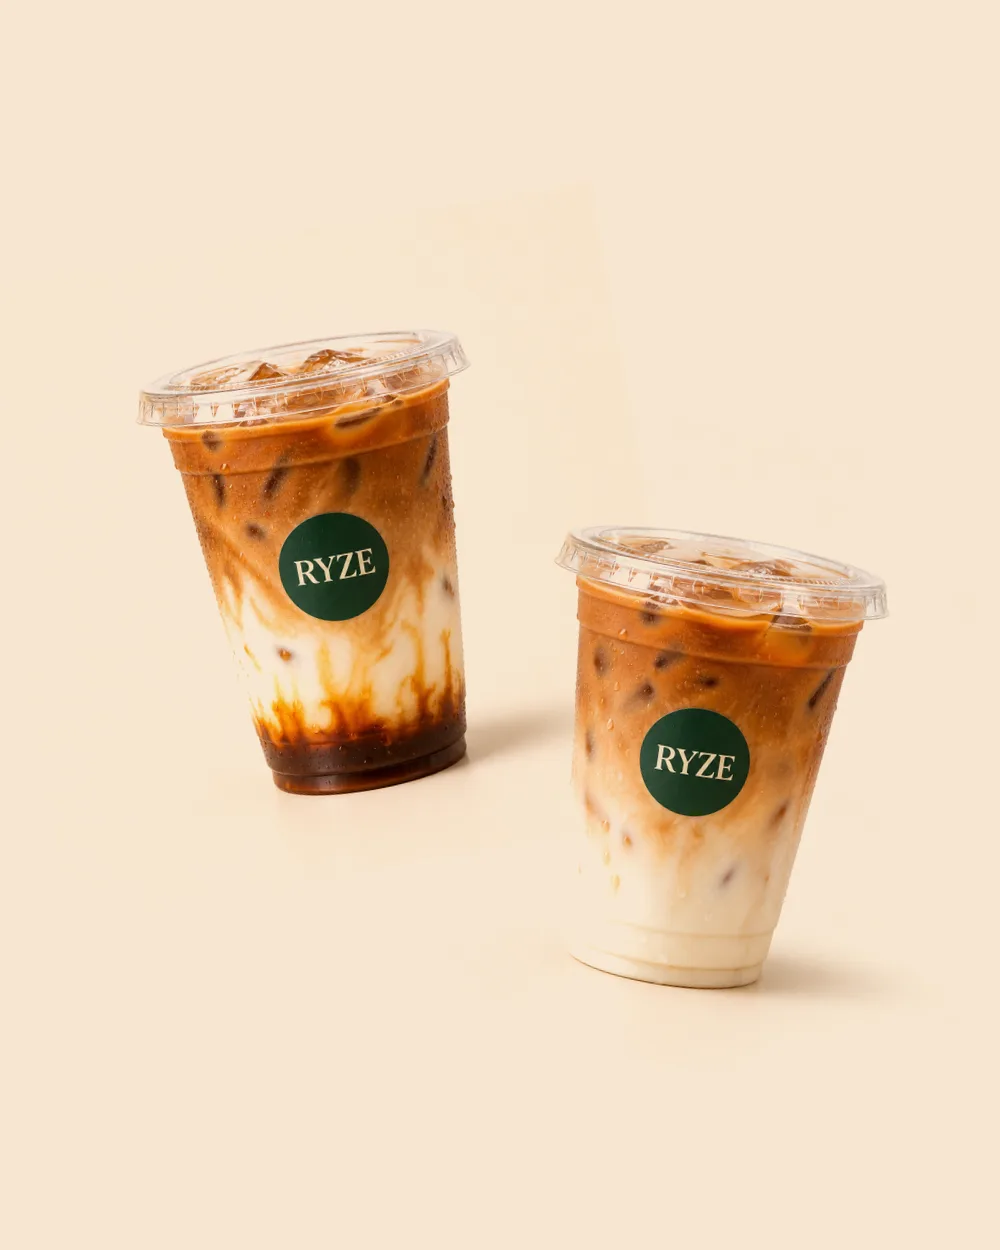
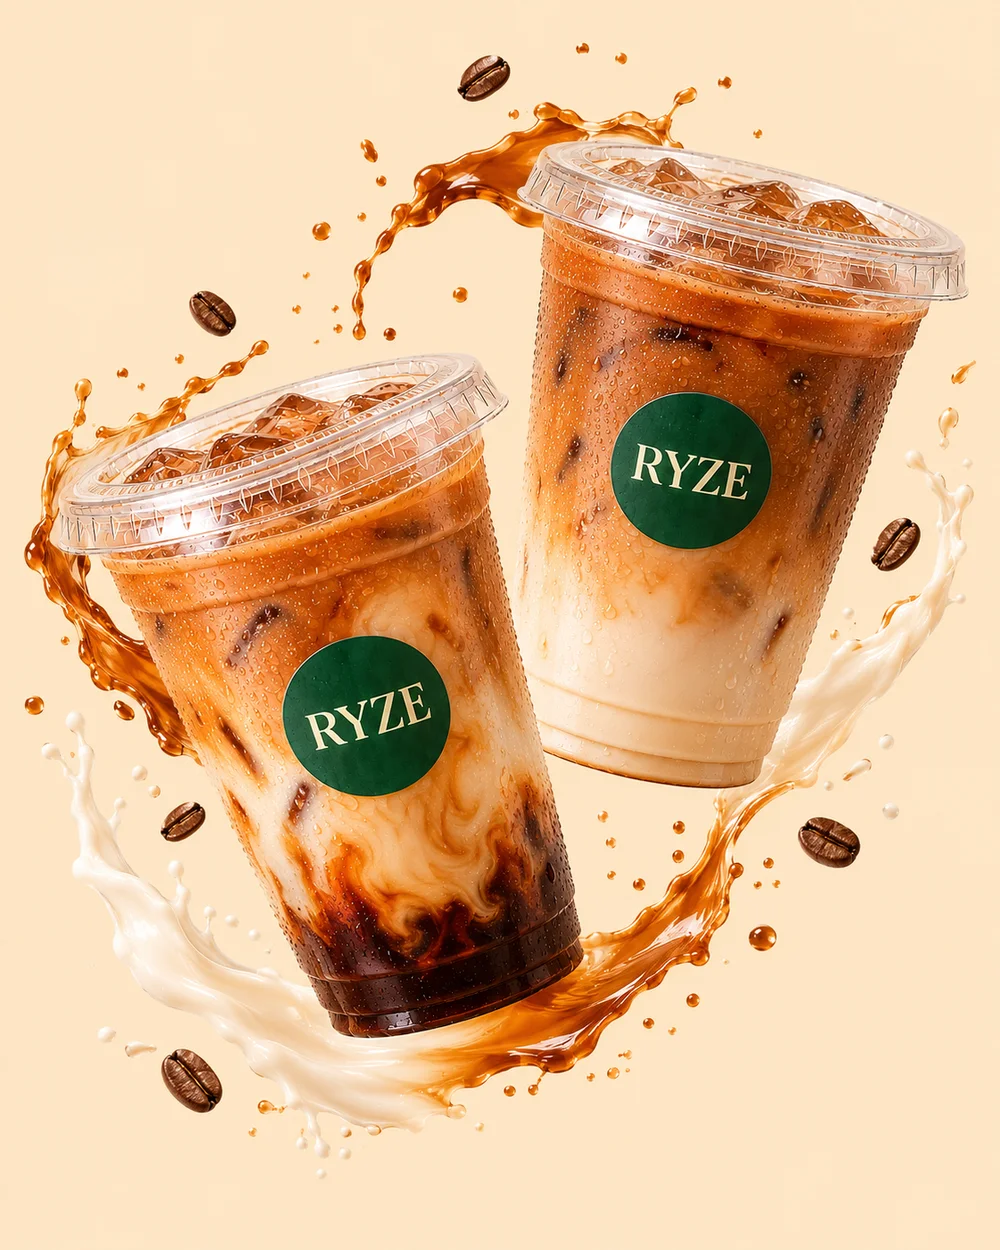
feat: AI hero and interior photos; larger, gently drifting hero image

diff --git a/src/components/home/Hero.tsx b/src/components/home/Hero.tsx
@@ -19,12 +19,12 @@ export function Hero() {
   const imageY = useTransform(scrollYProgress, [0, 1], [0, reduce ? 0 : 80]);
 
   return (
-    <section ref={ref} className="relative overflow-hidden bg-sand">
+    <section ref={ref} className="relative overflow-hidden bg-hero">
       {/* Desktop: exactly one screen tall below the 4rem navbar, so nothing needs scrolling. */}
-      <div className="mx-auto grid max-w-6xl items-center gap-6 px-4 pb-12 pt-8 md:h-[calc(100svh-4rem)] md:min-h-[32rem] md:max-h-[56rem] md:grid-cols-[1.1fr_1fr] md:gap-10 md:px-8 md:py-6">
+      <div className="mx-auto grid max-w-6xl items-center gap-6 px-4 pb-12 pt-8 md:h-[calc(100svh-4rem)] md:min-h-[32rem] md:max-h-[56rem] md:grid-cols-[1fr_1.15fr] md:gap-6 md:px-8 md:py-0">
         <div>
           <p className="anim-rise text-xs font-semibold uppercase tracking-[0.25em] text-brand/70">Signature Ryze</p>
-          <h1 className="mt-4 font-display text-5xl font-extrabold leading-[1.02] text-brand sm:text-6xl md:text-[clamp(3rem,min(9vh,5.6vw),5.25rem)]">
+          <h1 className="mt-4 font-display text-5xl font-extrabold leading-[1.02] text-brand sm:text-6xl md:text-[clamp(3rem,min(9vh,5vw),5.25rem)]">
             {HEADLINE.map((line, i) => (
               <span key={line} className="block overflow-hidden pb-1">
                 <span className="anim-line block" style={delay(0.1 + i * 0.12)}>
@@ -47,16 +47,22 @@ export function Hero() {
           </div>
         </div>
 
-        <motion.div style={{ y: imageY }} className="relative mx-auto h-full w-full max-w-sm md:max-w-none">
-          <div className="anim-pop relative aspect-[4/5] w-full md:aspect-auto md:h-full" style={delay(0.2)}>
-            <Image
-              src="/hero/hero.webp"
-              alt="Iced Aren Latte dan Iced Spanish Latte dari Ryze Coffee"
-              fill
-              priority
-              sizes="(min-width: 768px) 45vw, 90vw"
-              className="object-contain"
-            />
+        <motion.div style={{ y: imageY }} className="relative mx-auto h-full w-full max-w-md md:max-w-none">
+          {/* On desktop the photo spills a little past its column so the cups read large. */}
+          <div
+            className="anim-pop relative aspect-[4/5] w-full md:absolute md:inset-y-0 md:-left-6 md:-right-10 md:aspect-auto md:w-auto lg:-right-24"
+            style={delay(0.2)}
+          >
+            <div className="anim-drift relative h-full w-full">
+              <Image
+                src="/hero/hero.webp"
+                alt="Iced Aren Latte dan Iced Spanish Latte dari Ryze Coffee"
+                fill
+                priority
+                sizes="(min-width: 768px) 55vw, 90vw"
+                className="object-contain"
+              />
+            </div>
           </div>
         </motion.div>
       </div>

diff --git a/src/app/globals.css b/src/app/globals.css
@@ -6,6 +6,8 @@
   /* Background of the product photos — the hero uses it so the photo blends in. */
   --color-sand: #f7e6d1;
   --color-price: #9a4a28;
+  /* Exact background of public/hero/hero.webp — change both together. */
+  --color-hero: #fde5c5;
   --color-bg: #f4efe8;
   --color-coffee: #4a2a17;
   --color-ink: #2a1d14;
@@ -58,6 +60,19 @@ body {
 .anim-pop {
   animation: pop 0.9s cubic-bezier(0.22, 1, 0.36, 1) var(--d, 0s) both;
 }
+@keyframes drift {
+  0%,
+  100% {
+    translate: 0 0;
+  }
+  50% {
+    translate: 0 -12px;
+  }
+}
+/* Slow hover-in-the-air motion for the hero photo; starts after its pop-in. */
+.anim-drift {
+  animation: drift 6s ease-in-out 1.2s infinite;
+}
 
 /* Scroll reveal — only where scroll-driven animations exist; otherwise content is just shown. */
 @supports (animation-timeline: view()) {
@@ -73,7 +88,8 @@ body {
 @media (prefers-reduced-motion: reduce) {
   .anim-rise,
   .anim-line,
-  .anim-pop {
+  .anim-pop,
+  .anim-drift {
     animation: none;
   }
 }
